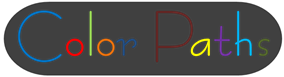
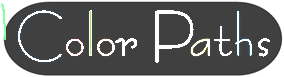
Modifications for visually impaired
* color changes
* add option to change the game size

diff --git a/index.html b/index.html
@@ -13,6 +13,7 @@
 
     <meta name="viewport"/>
 
+	<script src="http://ajax.googleapis.com/ajax/libs/jquery/1.9.1/jquery.min.js"></script>
     <script type="text/javascript" src="js/libs/viewporter.js"></script>
     <script type="text/javascript" src="js/libs/caat-min.js"></script>
     <script type="text/javascript" src="js/libs/sylvester.js"></script>
@@ -39,19 +40,82 @@
         window.addEventListener ? window.addEventListener("load",initializeTGE,false) : window.attachEvent && window.attachEvent("onload",initializeTGE);
 
     </script>
-
+	<style type="text/css">
+	<!--#size-buttons { 
+		width: 100%; height: 50px; background-color: #FFF; text-align: center;
+		background-color: gray ;*/
+	}-->
+	
+	#size-buttons button {
+	
+	}
+	
+	#size-buttons button {
+	font-family: Arial, Helvetica, sans-serif;
+	font-size: 14px;
+	color: #ffffff;
+	padding: 10px 20px;
+	background: -moz-linear-gradient(
+		top,
+		#f0f0f0 0%,
+		#b8b8b8 25%,
+		#6b6b6b 75%,
+		#424242);
+	background: -webkit-gradient(
+		linear, left top, left bottom, 
+		from(#f0f0f0),
+		color-stop(0.25, #b8b8b8),
+		color-stop(0.75, #6b6b6b),
+		to(#424242));
+	-moz-border-radius: 15px;
+	-webkit-border-radius: 15px;
+	border-radius: 15px;
+	border: 3px solid #171717;
+	-moz-box-shadow:
+		0px 1px 3px rgba(000,000,000,0),
+		inset 0px 0px 10px rgba(087,087,087,0);
+	-webkit-box-shadow:
+		0px 1px 3px rgba(000,000,000,0),
+		inset 0px 0px 10px rgba(087,087,087,0);
+	box-shadow:
+		0px 1px 3px rgba(000,000,000,0),
+		inset 0px 0px 10px rgba(087,087,087,0);
+	text-shadow:
+		0px 0px 0px rgba(000,000,000,0),
+		0px 0px 0px rgba(255,255,255,0);
+}
+	</style>
 </head>
 
 
 <body>
-
+	<div id="size-buttons">
+	<button data-width="200" data-height="260">Size 1</button>
+	<button data-width="400" data-height="520">Size 2</button>
+	<button data-width="600" data-height="780">Size 3</button>
+	<button data-width="800" data-height="1040">Size 4</button>
+	</div>
     <div id="viewporter" align="center" width="100%">
         <div id="game_canvas" style="position:relative; width:320px; height:416px; top:0px; text-align: center; vertical-align: middle;">
         </div>
         <div id="game_canvas_wrong" style="display:none;position:relative; width:416px; height:320px; top:0px; text-align: center; vertical-align: middle;"> <h3>This game is not supported in landscape mode.</h3>
         </div>
     </div>
-
+	
+	<script>
+	$(function () {
+		var sizeDiv = $('#game_canvas');
+		$('#size-buttons').on('click', 'button', function () {
+			sizeDiv.html('');
+			sizeDiv.css({
+				width: $(this).data('width'),
+				height: $(this).data('height')
+			});
+			var game = new MyGame();
+			game.Launch("game_canvas", "game_canvas_wrong");
+		});
+	});
+	</script>
 </body>
 
 </html>
